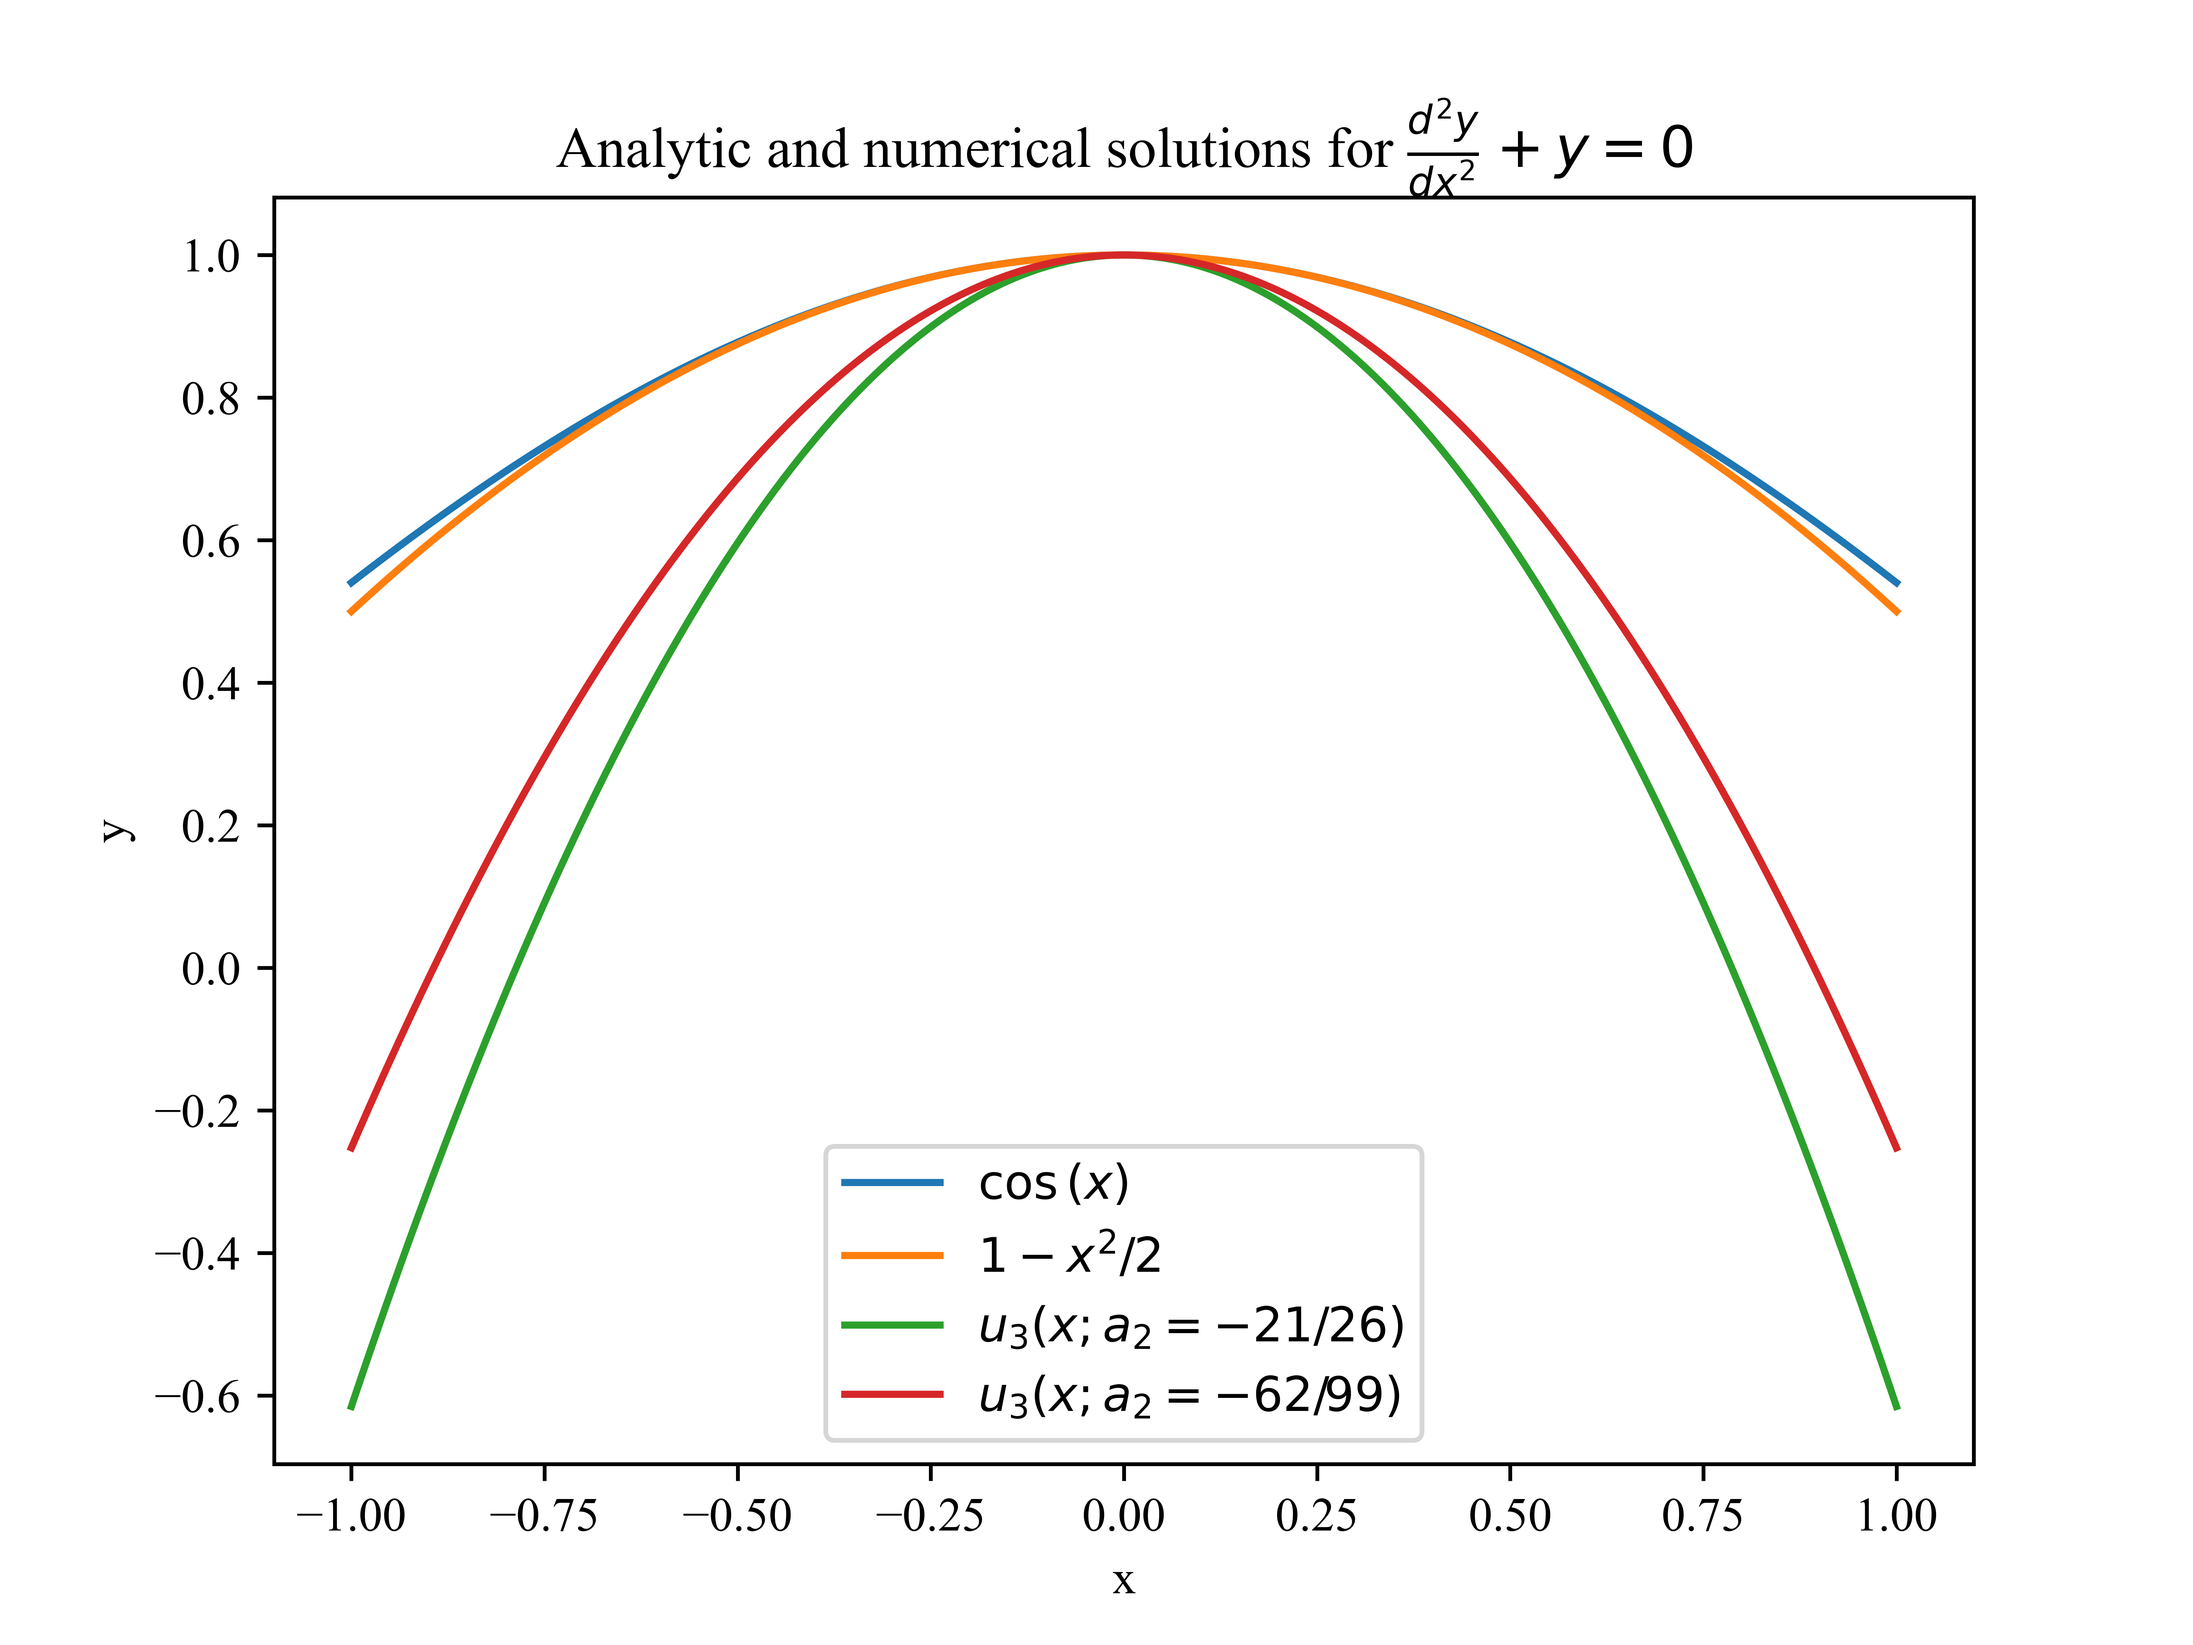
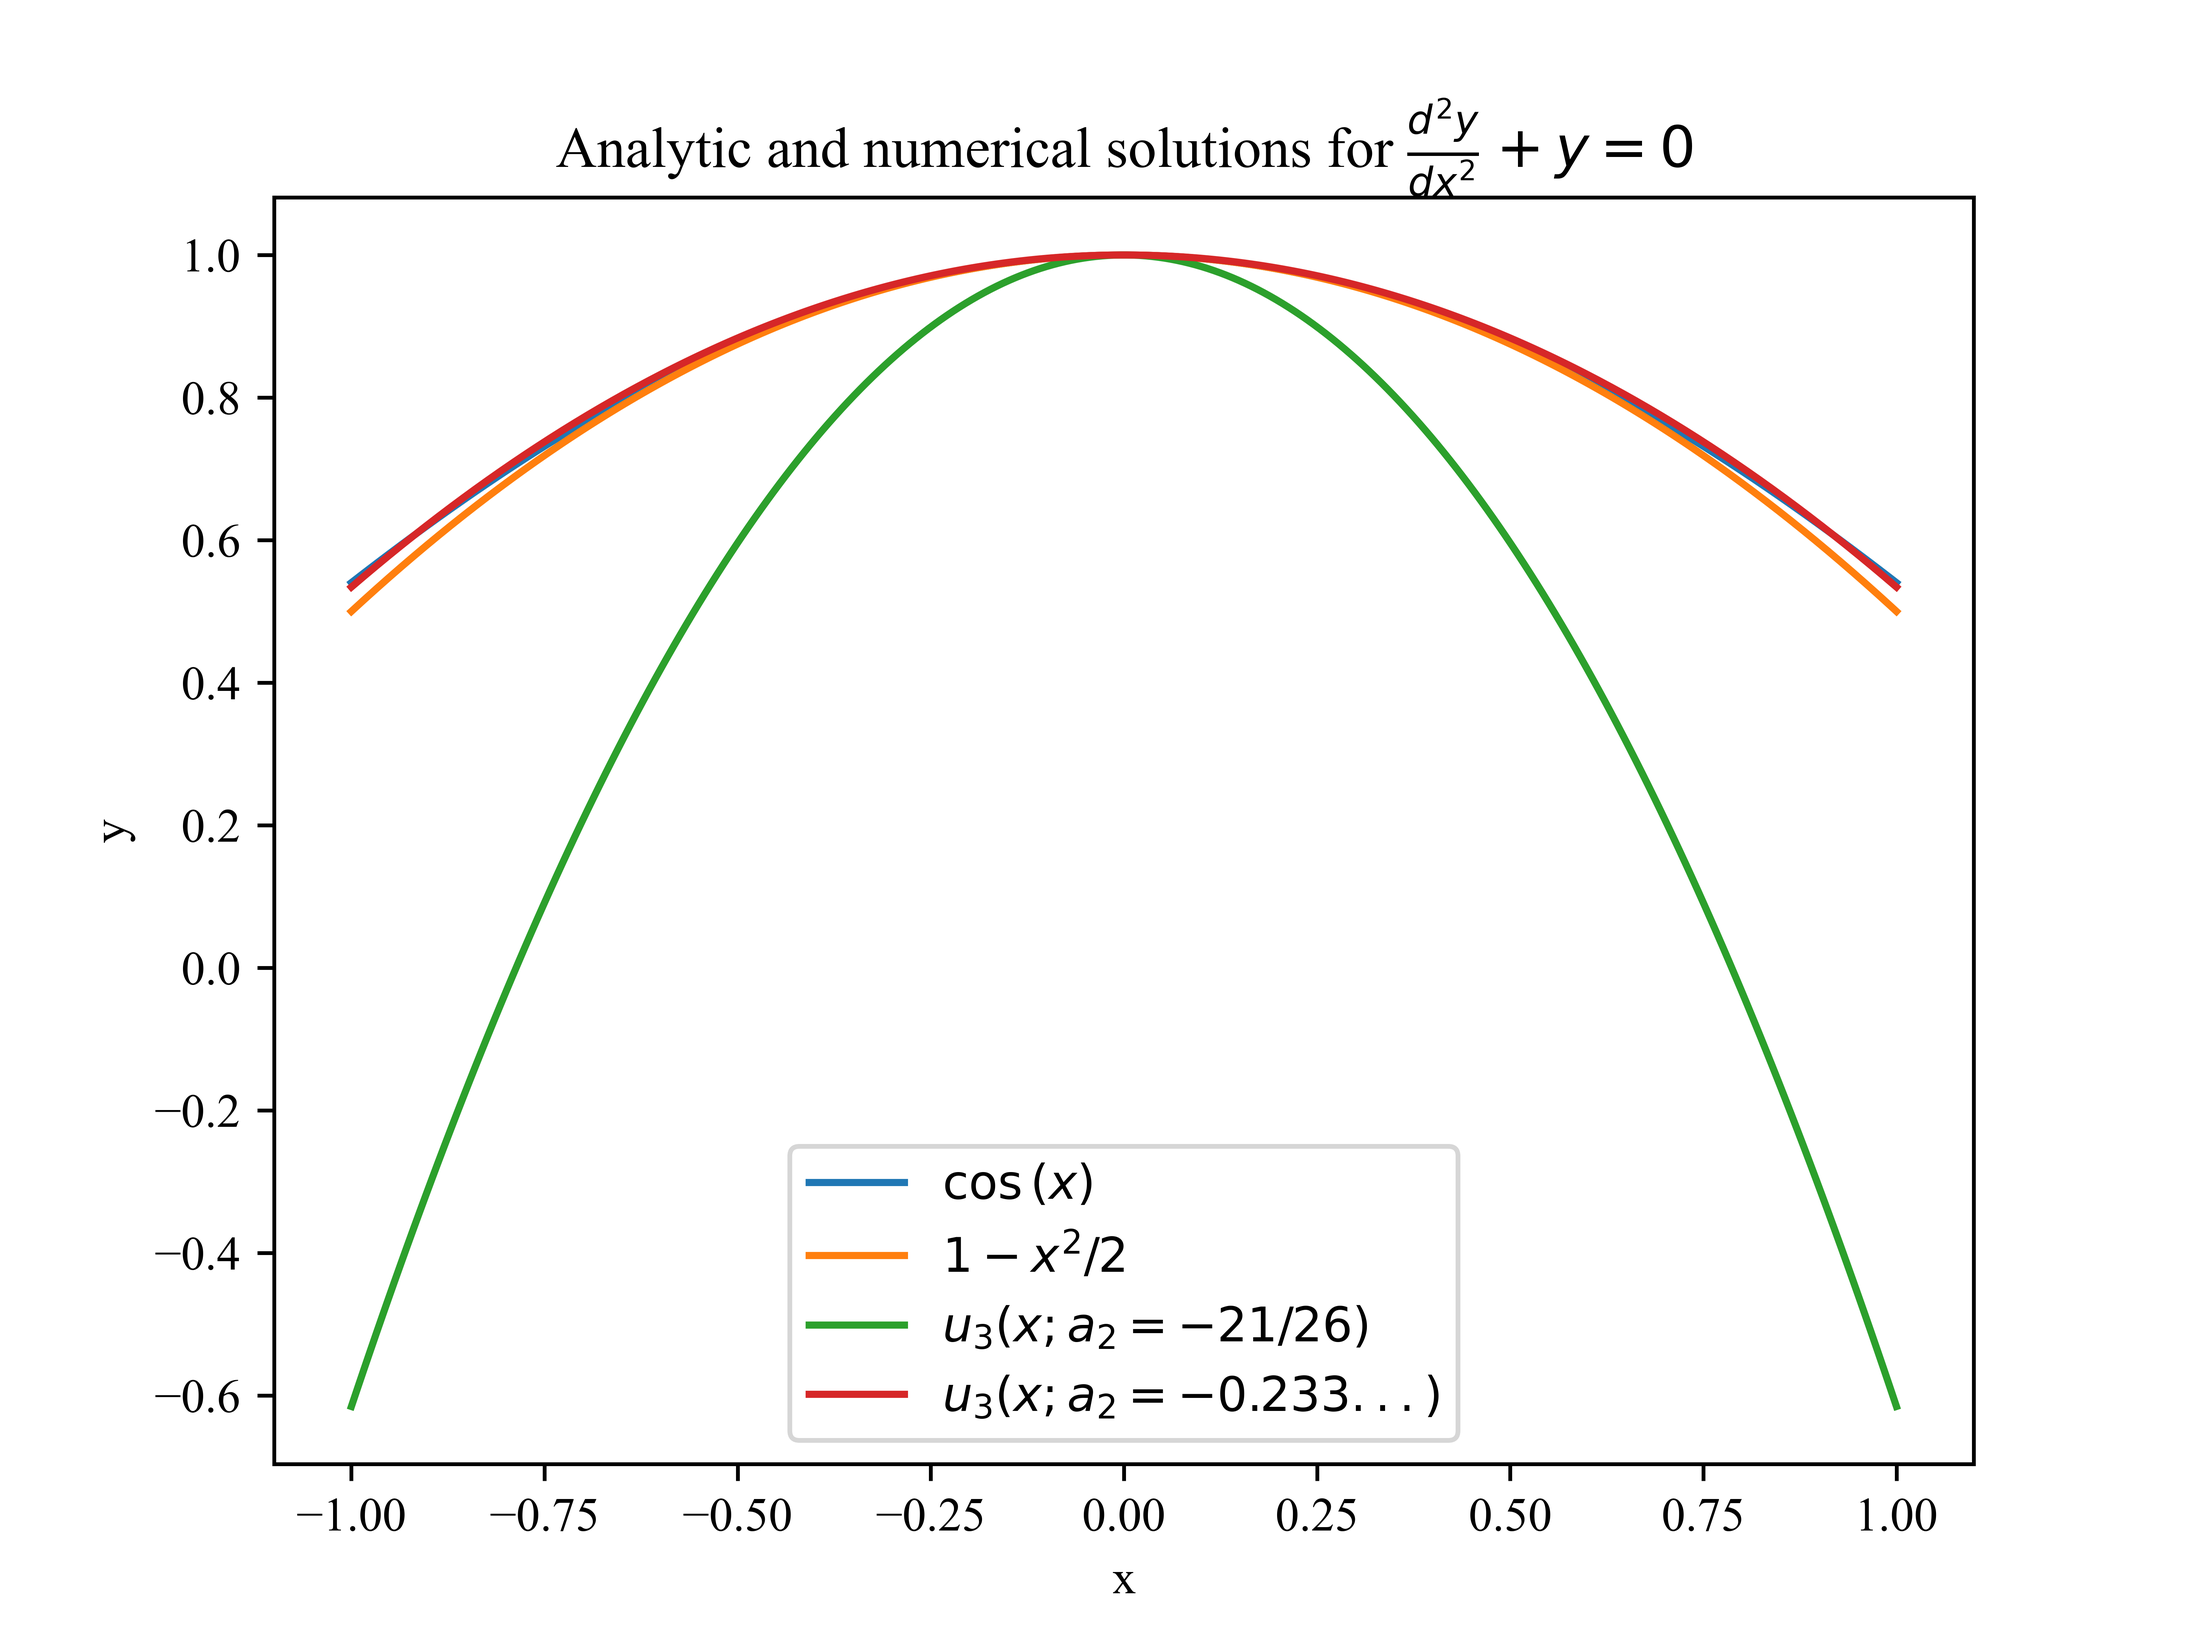
Added U3 approximation

diff --git a/Deviation.py b/Deviation.py
@@ -7,8 +7,11 @@ plt.rcParams["font.family"] = "Times New Roman"
 
 # Plots
 plotA = False
-plotB = True
+plotB = False
 plotC = False
+plotD = True
+
+Save_figure = True
 
 
 a_2s = np.linspace(-2, 2, 250)
@@ -29,11 +32,10 @@ if plotA:
         vars[i] = var(a_2s[i])
 
     min_var = np.min(vars)
-    print(min_var)
 
     mask = np.where(vars == min_var, 1, 0)
     min_a_2 = np.dot(mask, a_2s)
-    print(min_a_2)
+    print("Minimum = (" + str(min_a_2) + ", " + str(min_var) + ")")
 
     plt.figure()
     plt.plot(a_2s, vars)
@@ -42,7 +44,8 @@ if plotA:
     plt.ylabel(r"$\sqrt{\int_{-1}^1 | u_3(x; a_2) - \cos{(x)} |^2dx}$")
     plt.title(r"$u_3(x; a_2)$ RMS Error")
     plt.legend()
-    plt.savefig("u_3_error.png", dpi=1000)
+    if Save_figure:
+        plt.savefig("u_3_error.png", dpi=1000)
     plt.show()
 
 if plotB:
@@ -80,7 +83,8 @@ if plotB:
     plt.xlabel(r"$a_2$")
     plt.ylabel(r"$\bar{R}(a_2)$")
     plt.title("Remainder error")
-    plt.savefig("remainder minimisation.png", dpi=1000)
+    if Save_figure:
+        plt.savefig("remainder minimisation.png", dpi=1000)
     plt.show()
 
 
@@ -94,10 +98,57 @@ if plotC:
 
     plt.plot(x, Taylor(x), label=r"$1-x^2/2$")
     plt.plot(x, trunc(-21 / 26, x), label=r"$u_3(x;a_2=-21/26)$")
-    plt.plot(x, trunc(-62 / 99, x), label=r"$u_3(x;a_2=-62/99)$")
+    plt.plot(x, trunc(-0.23293172690763075, x), label=r"$u_3(x;a_2=-0.233...)$")
     plt.xlabel("x")
     plt.ylabel("y")
     plt.title(r"Analytic and numerical solutions for $\frac{d^2y}{dx^2} + y = 0$")
     plt.legend()
-    plt.savefig("Approximations.png", dpi=1000)
+    if Save_figure:
+        plt.savefig("Approximations.png", dpi=1000)
     plt.show()
+
+
+if plotD:
+    x = np.linspace(-1, 1, 250)
+    
+
+    def Tau(x):
+        return 1 - 2 * x**2 / 5
+    
+    Tau_y, cos_y = Tau(x), np.cos(x)
+
+    # Mean error
+
+    mean_err = quad(lambda x: (Tau(x) - np.cos(x)), -1, 1)[0]/2
+    print(mean_err)
+
+    # Plotting
+
+    plt.figure(1).add_axes((0.1, 0.3, 0.8, 0.6))
+
+    plt.plot(x, Tau_y, label=r"$1-2x^2/5$", color ="r")
+    plt.plot(x, cos_y, linestyle="--", label=r"$\cos{(x)}$", color="black")
+    plt.fill_between(x, Tau_y, cos_y, alpha=0.5)
+
+    plt.xlabel("x")
+    plt.ylabel("y")
+    plt.title(r"Tau method solution for $\frac{d^2y}{dx^2} + y = 0$")
+    plt.legend()
+
+    plt.figure(1).add_axes((0.1, 0.1, 0.8, 0.2))
+
+    plt.plot(x, Tau_y - cos_y, color="r")
+    plt.plot(x, np.zeros_like(x), linestyle="--", color="black")
+    plt.fill_between(x, Tau_y-cos_y, np.zeros_like(x), alpha=0.5)
+    plt.plot(x, mean_err*np.ones_like(x), label="Mean error")
+
+    plt.xlabel("x")
+    plt.ylabel("Error")
+
+    plt.text(-1 + 0.01, mean_err + 0.002, "Mean error")
+
+    if Save_figure:
+        plt.savefig("u3.png", dpi=1000)
+    plt.show()
+
+    

diff --git a/Cosine_approx.py b/Cosine_approx.py
@@ -1,0 +1,52 @@
+import numpy as np
+from numpy.polynomial.chebyshev import chebvander
+import matplotlib.pyplot as plt
+from scipy.integrate import quad
+
+N = 20
+
+n = 2
+x_j = np.array([0, 0])
+alpha_j = np.array([0, 1])
+d_j = np.array([1, 0])
+
+assert len(alpha_j) == n & len(alpha_j) == len(d_j)
+
+
+# [0, 1]
+def diff_mat(alpha):
+    D_matrix_T = np.zeros((N, N))
+    k = np.arange(1, N, 2)
+
+    for i in k:
+        D_matrix_T += np.diagflat(np.arange(i, N), i)
+    D_matrix = D_matrix_T.T
+    D_matrix[:, 0] /= 2
+
+    D_matrix *= 4
+    return np.linalg.matrix_power(D_matrix, alpha)
+
+
+Big_mat = diff_mat(2) + np.eye(N)
+Big_mat[:, -1] = (diff_mat(alpha_j[0]) @ chebvander(-1, N - 1).T)[:, 0]
+Big_mat[:, -2] = (diff_mat(alpha_j[1]) @ chebvander(-1, N - 1).T)[:, 0]
+
+Big_mat_inv = np.linalg.inv(Big_mat)
+
+column_vec = np.zeros(N)
+column_vec[-1], column_vec[-2] = d_j[0], d_j[1]
+
+a_i = column_vec @ Big_mat_inv
+
+
+ts = np.linspace(-1, 1, 250)
+x = (ts + 1)/2
+y = a_i @ chebvander(ts, N - 1).T
+
+mean_err = quad(lambda x: (a_i @ chebvander(x, N-1).T - np.cos(x)), 0, 1)[0]
+print(mean_err)
+
+plt.figure()
+plt.plot(x, y)
+plt.plot(x, np.cos(x))
+plt.show()
